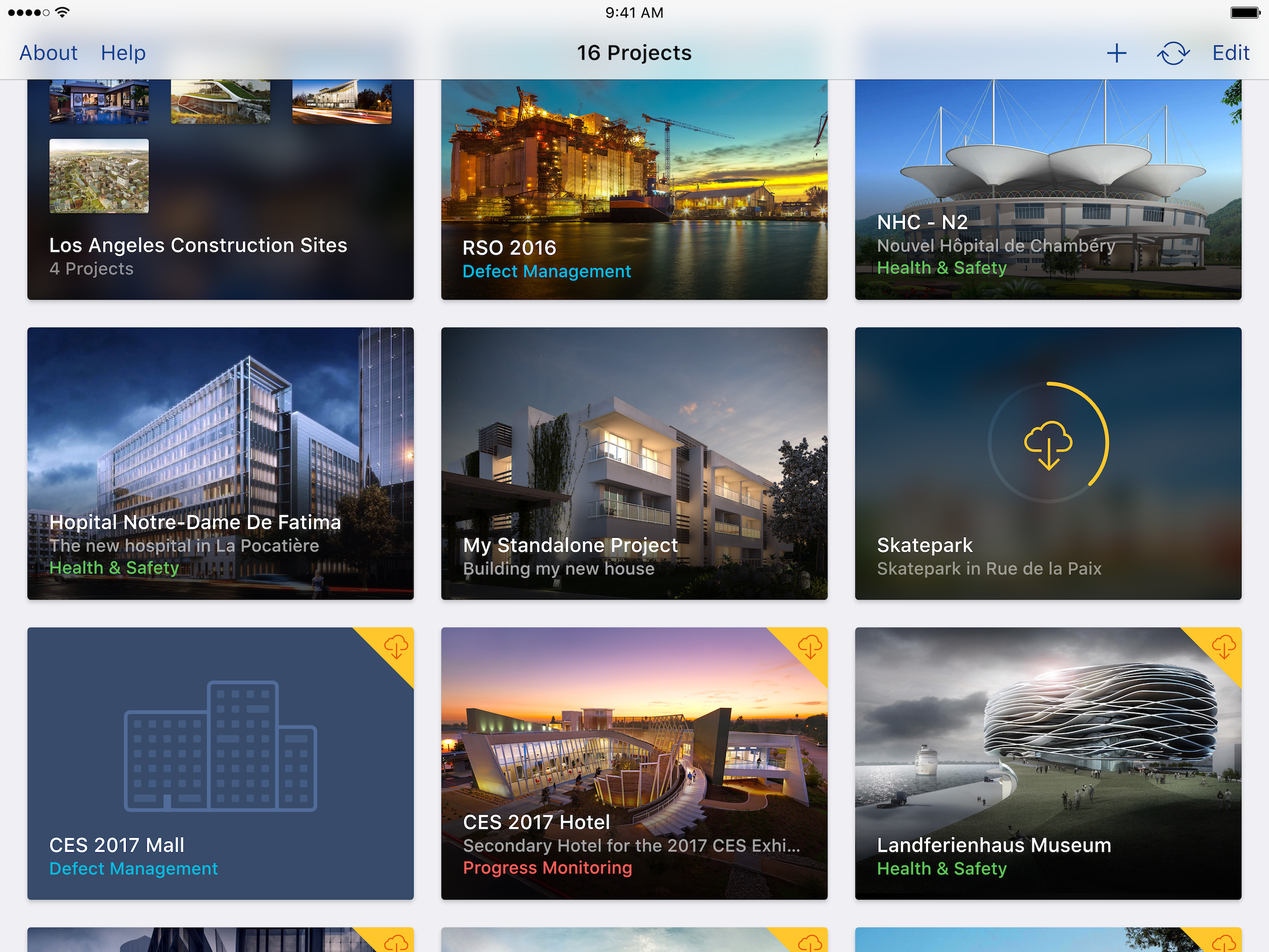
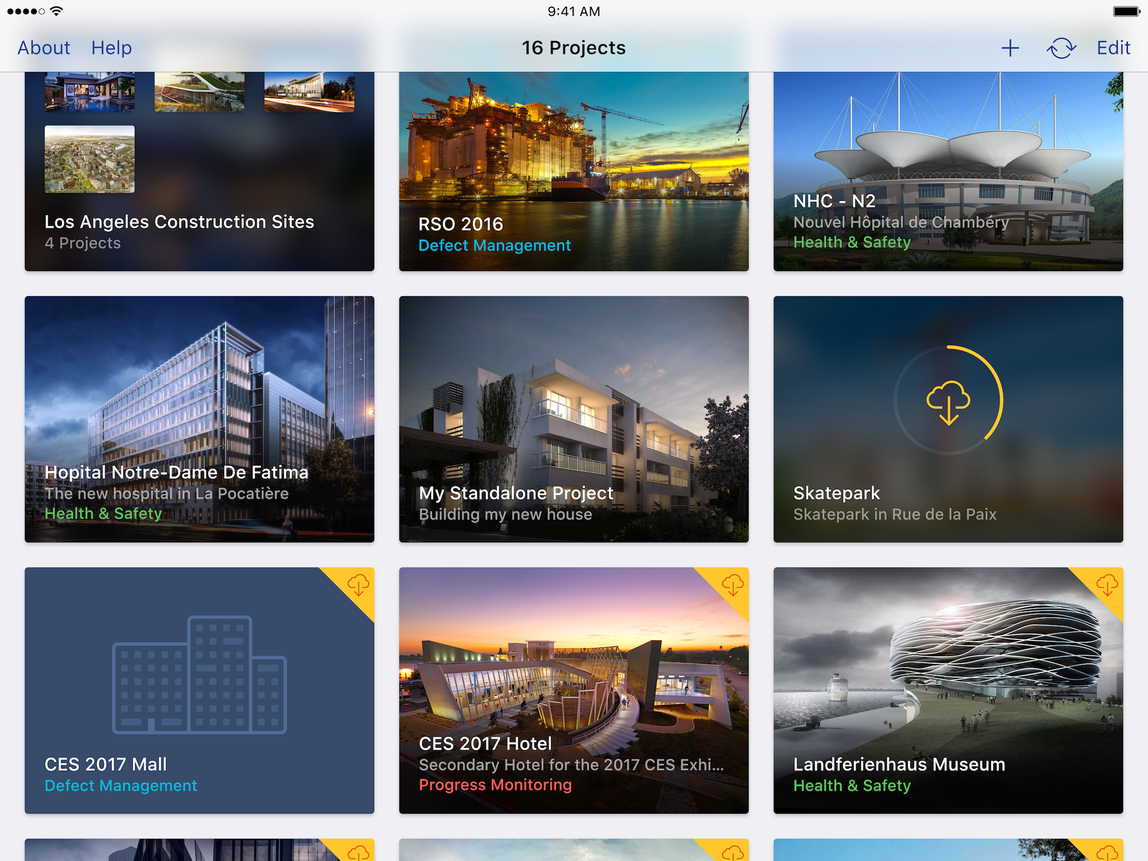
Add main padding top vh + finished build page layout

diff --git a/index.html b/index.html
@@ -164,6 +164,7 @@
 							</div>
 							<span class="home-button"></span>
 						</div>
+						<div class="cta download">Watch Animation</div>
 					</div>
 				</div>
 				<div class="three-cols">
@@ -207,6 +208,7 @@
 							</div>
 							<span class="home-button"></span>
 						</div>
+						<div class="cta download">Watch Animation</div>
 					</div>
 				</div>
 
@@ -241,6 +243,7 @@
 							</div>
 							<span class="home-button"></span>
 						</div>
+						<div class="cta download">Watch Animation</div>
 					</div>
 				</div>
 				<div class="clearfix"></div>
@@ -259,6 +262,7 @@
 						</div>
 						<span class="home-button"></span>
 					</div>
+					<div class="cta download">Watch Animation</div>
 				</div>
 			</div>
 		</section>
@@ -282,6 +286,8 @@
 						</div>
 						<span class="home-button"></span>
 					</div>
+					<div class="cta download">Watch Video</div>
+					<div class="cta watch">See on the Mac App Store</div>
 				</div>
 			</div>
 		</section>
@@ -323,6 +329,7 @@
 							</div>
 							<span class="home-button"></span>
 						</div>
+						<div class="cta download">Watch Animation</div>
 					</div>
 				</div>
 				<div class="three-cols">
@@ -382,6 +389,7 @@
 							</div>
 							<span class="home-button"></span>
 						</div>
+						<div class="cta watch">See on the App Store</div>
 					</div>
 				</div>
 				<div class="three-cols">
@@ -434,8 +442,8 @@
 							<span class="speaker"></span>
 							<div class="screen">
 								<figure>
-									<img src="dist/assets/ios/ecoute1/ArtistesAlbumsDetail.jpg"
-									     srcset="dist/assets/ios/ecoute1/ArtistesAlbumsDetail@2x.jpg 2x"
+									<img src="dist/assets/ios/ecoute1/ArtistAlbumsDetail.png"
+									     srcset="dist/assets/ios/ecoute1/ArtistAlbumsDetail@2x.png 2x"
 									     alt="">
 								</figure>
 							</div>

diff --git a/scss/base/_variables.scss b/scss/base/_variables.scss
@@ -13,7 +13,7 @@ $cta-size: 2em*$scale-factor;
 $footer-size: 2em*$scale-factor;
 
 // Spaces
-$main-padding-top-spacing: 28.4em*$scale-factor;
+$main-padding-top-spacing: 24vh*$scale-factor;
 $main-padding-bottom-spacing: 13.4em*$scale-factor;
 $main-padding-side-spacing: 6em*$scale-factor;
 $section-padding-upperBottom-spacing: 8.1em*$scale-factor;
